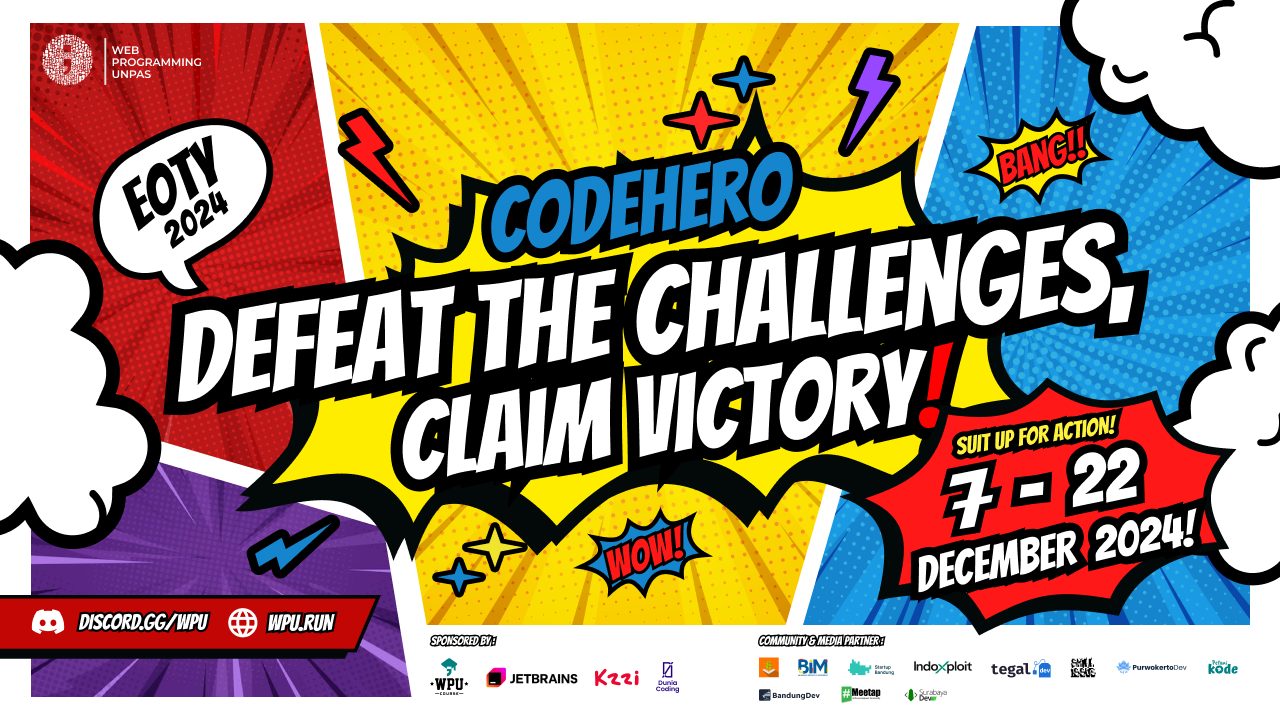
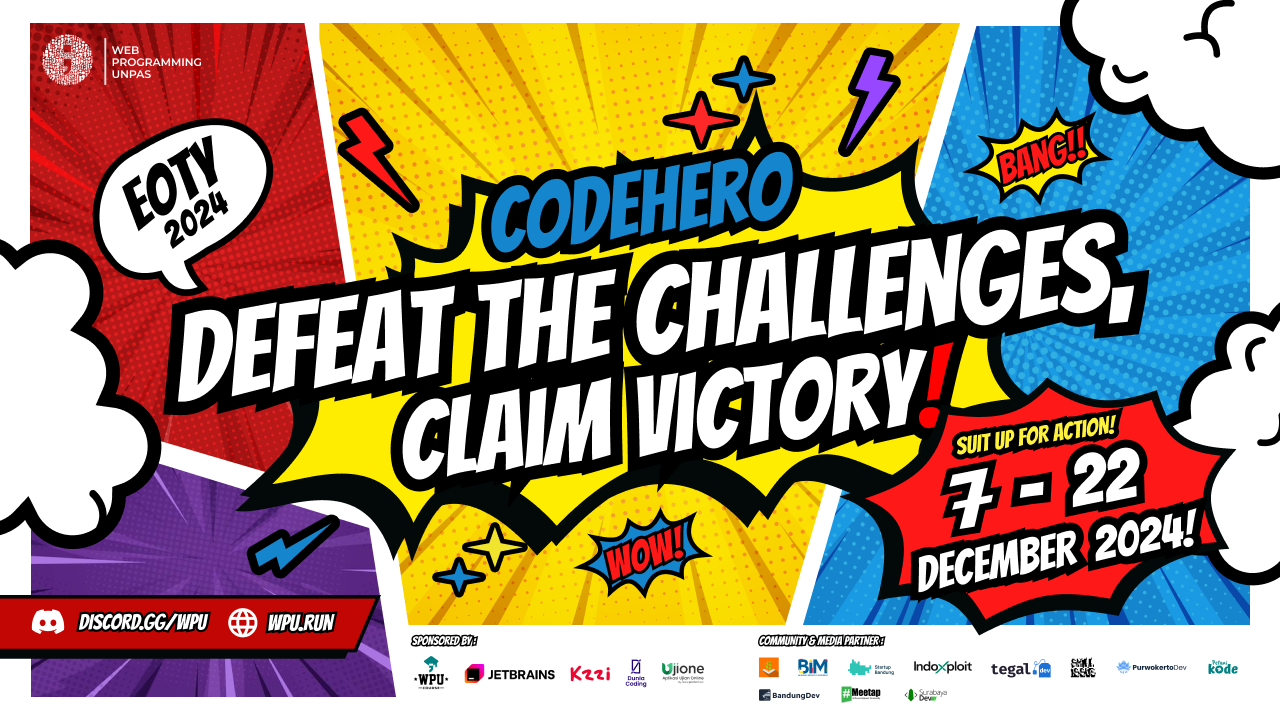
add: sponsor

diff --git a/src/constants/constant.js b/src/constants/constant.js
@@ -123,6 +123,12 @@ const sponsorsList = [
         src: "/assets/logos/DC_Alternate.png",
         width: 80,
         href: "https://duniacoding.id/",
+    },
+    {
+        name: "Ujione",
+        src: "/assets/logos/ujione-by-jetorbit-2.svg",
+        width: 150,
+        href: "https://ujione.id/",
     }
 ];
 
